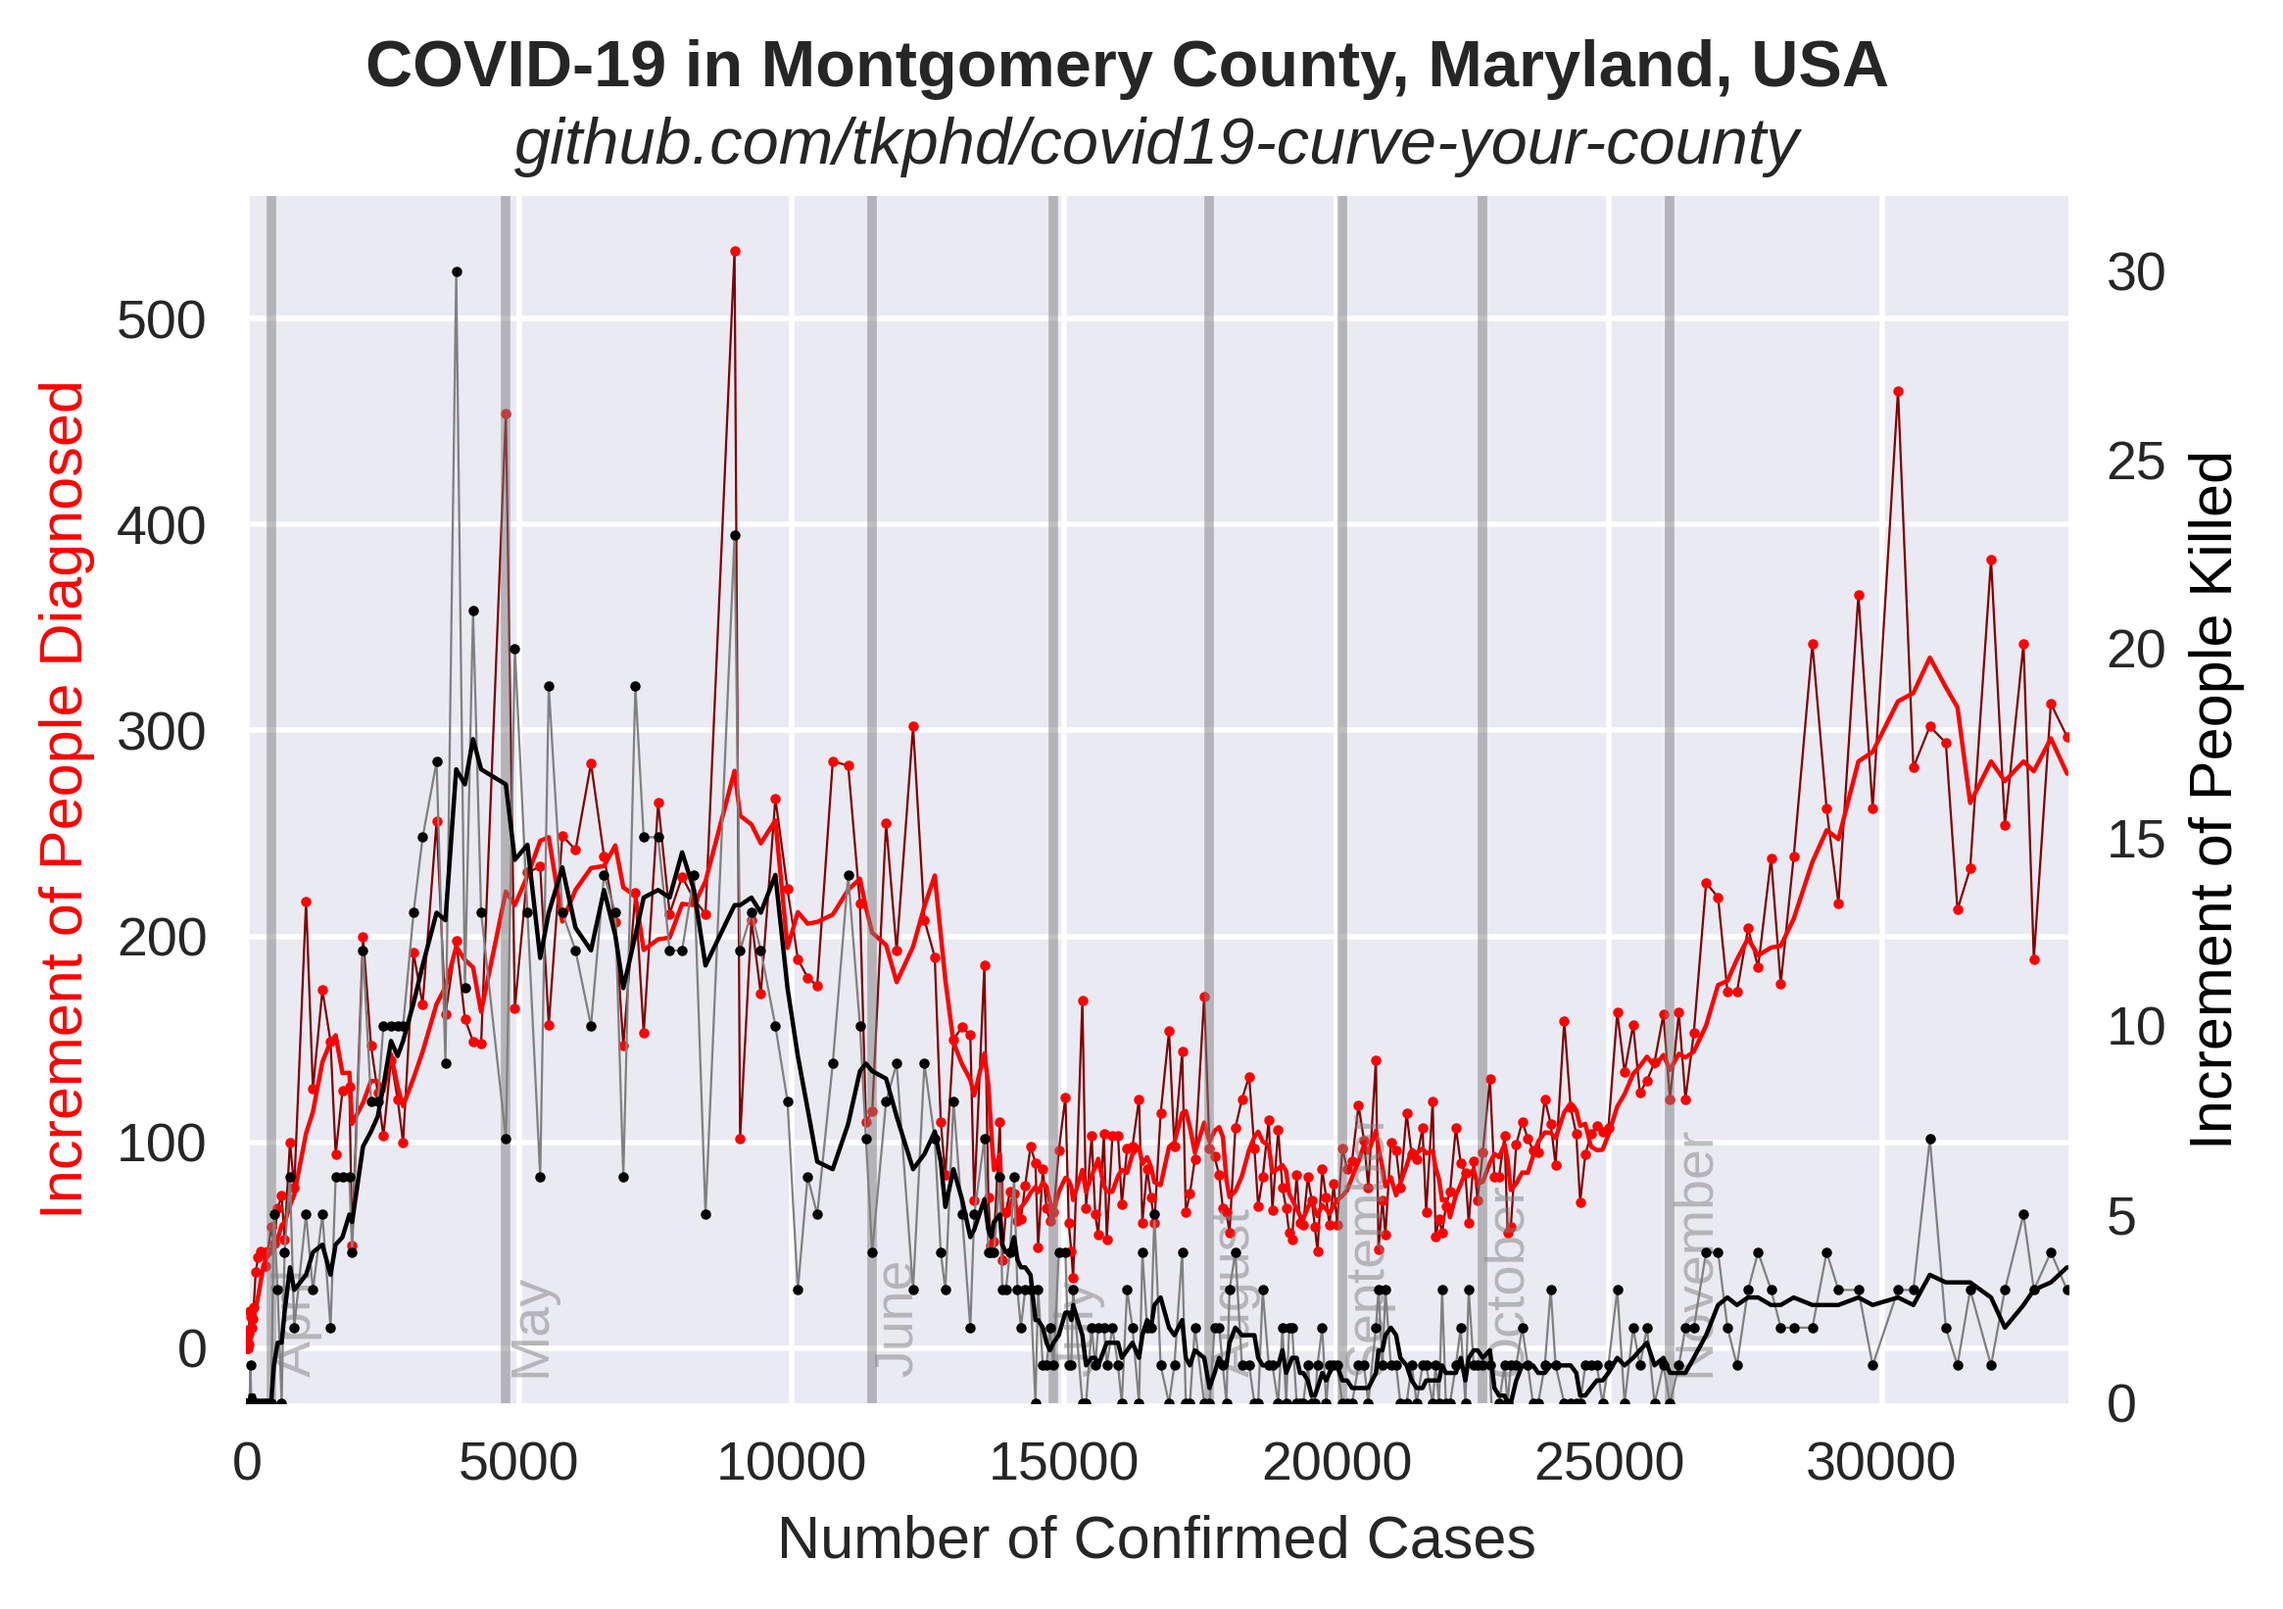
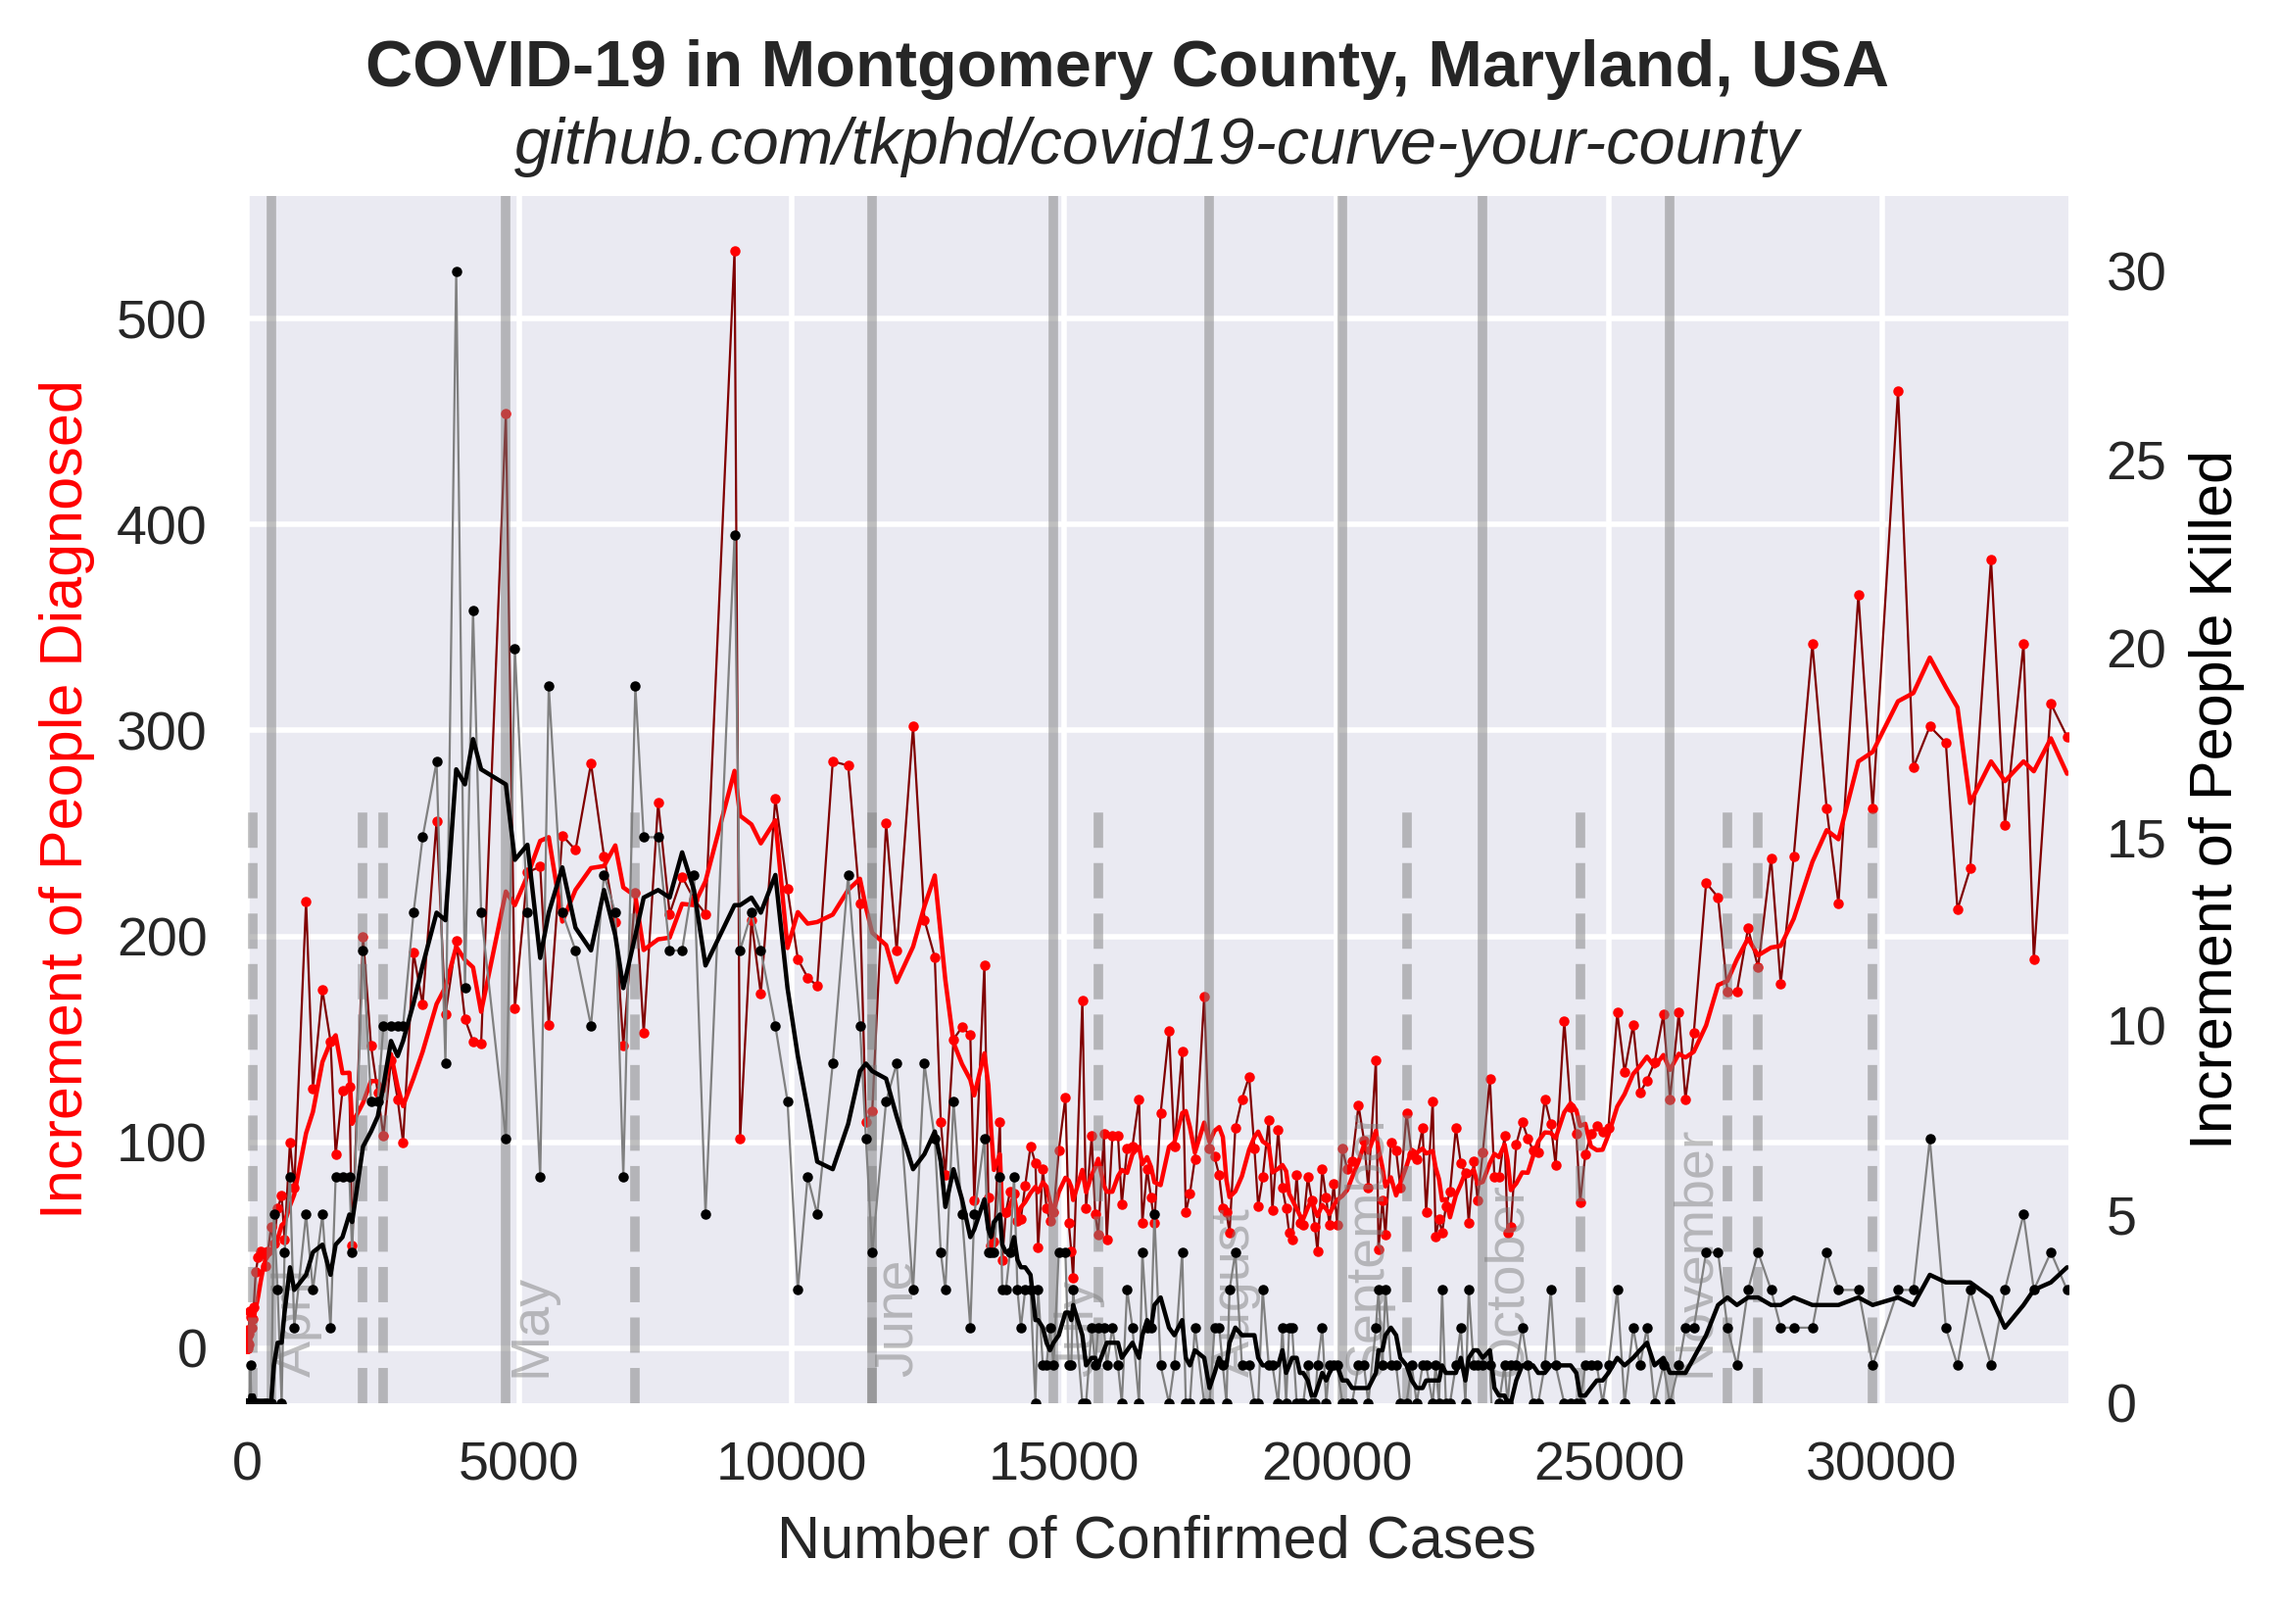
update months, enumerate holidays

Changed region(s): [[0.7416, 0.497, 0.7725, 0.8697], [0.1545, 0.497, 0.1854, 0.8697]]

diff --git a/exponential.py b/exponential.py
@@ -114,17 +114,44 @@ start = date(start.tm_year, start.tm_mon, start.tm_mday).toordinal()
 # Keep track of when successive months began, in terms of days since the "epoch", 2020-03-05.
 
 months = [
-    ["April", date(2020, 4, 1).toordinal() - start],
-    ["May", date(2020, 5, 1).toordinal() - start],
-    ["June", date(2020, 6, 1).toordinal() - start],
-    ["July", date(2020, 7, 1).toordinal() - start],
-    ["August", date(2020, 8, 1).toordinal() - start],
-    ["September", date(2020, 9, 1).toordinal() - start],
-    ["October", date(2020, 10, 1).toordinal() - start],
-    ["November", date(2020, 11, 1).toordinal() - start],
-    # ["December",  date(2020, 12, 1).toordinal() - start]
+    ["April",     date(2020,  4, 1).toordinal() - start],
+    ["May",       date(2020,  5, 1).toordinal() - start],
+    ["June",      date(2020,  6, 1).toordinal() - start],
+    ["July",      date(2020,  7, 1).toordinal() - start],
+    ["August",    date(2020,  8, 1).toordinal() - start],
+    ["September", date(2020,  9, 1).toordinal() - start],
+    ["October",   date(2020, 10, 1).toordinal() - start],
+    ["November",  date(2020, 11, 1).toordinal() - start],
+    ["December",  date(2020, 12, 1).toordinal() - start],
+    # ["January",   date(2021,  1, 1).toordinal() - start],
+    # ["February",  date(2021,  2, 1).toordinal() - start],
+    # ["March",     date(2021,  3, 1).toordinal() - start],
+    # ["April",     date(2021,  4, 1).toordinal() - start],
+    # ["May",       date(2021,  5, 1).toordinal() - start],
+    # ["June",      date(2021,  6, 1).toordinal() - start],
+    # ["July",      date(2021,  7, 1).toordinal() - start],
+    # ["August",    date(2021,  8, 1).toordinal() - start],
+    # ["September", date(2021,  9, 1).toordinal() - start],
+    # ["October",   date(2021, 10, 1).toordinal() - start],
+    # ["November",  date(2021, 11, 1).toordinal() - start],
+    # ["December",  date(2021, 12, 1).toordinal() - start],
 ]
 
+holidays = [
+    ["St. Patrick's", date(2020,  3, 17).toordinal() - start],
+    ["Passover",      date(2020,  4,  9).toordinal() - start],
+    ["Easter",        date(2020,  4, 12).toordinal() - start],
+    ["Cinco",         date(2020,  5,  5).toordinal() - start],
+    ["Memorial",      date(2020,  5, 25).toordinal() - start],
+    ["Independence",  date(2020,  7,  4).toordinal() - start],
+    ["Labor",         date(2020,  9,  7).toordinal() - start],
+    ["Indigenous",    date(2020, 10, 12).toordinal() - start],
+    ["Halloween",     date(2020, 10, 31).toordinal() - start],
+    ["Election",      date(2020, 11,  3).toordinal() - start],
+    ["Veterans",      date(2020, 11, 11).toordinal() - start],
+    ["Thanksgiving",  date(2020, 11, 26).toordinal() - start],
+    ["Christmas",     date(2020, 12, 25).toordinal() - start],
+]
 
 today = strptime(data["date"].iloc[-1], "%Y-%m-%d")
 today = date(today.tm_year, today.tm_mon, today.tm_mday).toordinal()
@@ -169,6 +196,11 @@ plt.ylim([-50, ymax])
 for month, day in months:
     plt.plot((day, day), (0, ymax), c="gray", alpha=0.5, zorder=1)
     plt.text(day + 1, 300, month, rotation=90, c="gray", alpha=0.5, zorder=1)
+
+## Label holidays
+#for holiday, day in holidays:
+#    plt.plot((day + 7, day + 7), (0, ymax / 2), c="gray", linestyle='dashed', alpha=0.5, zorder=1)
+#    # plt.text(day + 1, 300, holiday, rotation=90, c="gray", alpha=0.5, zorder=1)
 
 # Save figure
 plt.legend(loc="center left")
@@ -235,6 +267,12 @@ for month, day in months:
     cases = data.loc[day, "diagnosed"]
     plt.plot((cases, cases), (0, 32), c="gray", alpha=0.5, zorder=1)
     plt.text(cases + 1, 1, month, rotation=90, c="gray", alpha=0.5, zorder=1)
+
+## Label holidays
+#for holiday, day in holidays:
+#    cases = data.loc[day + 7, "diagnosed"]
+#    plt.plot((cases, cases), (0, 16), c="gray", linestyle='dashed', alpha=0.5, zorder=1)
+#    # plt.text(cases + 1, 1, holiday, rotation=90, c="gray", alpha=0.5, zorder=1)
 
 plt.savefig("increment.png", dpi=400, bbox_inches="tight")
 plt.close()
